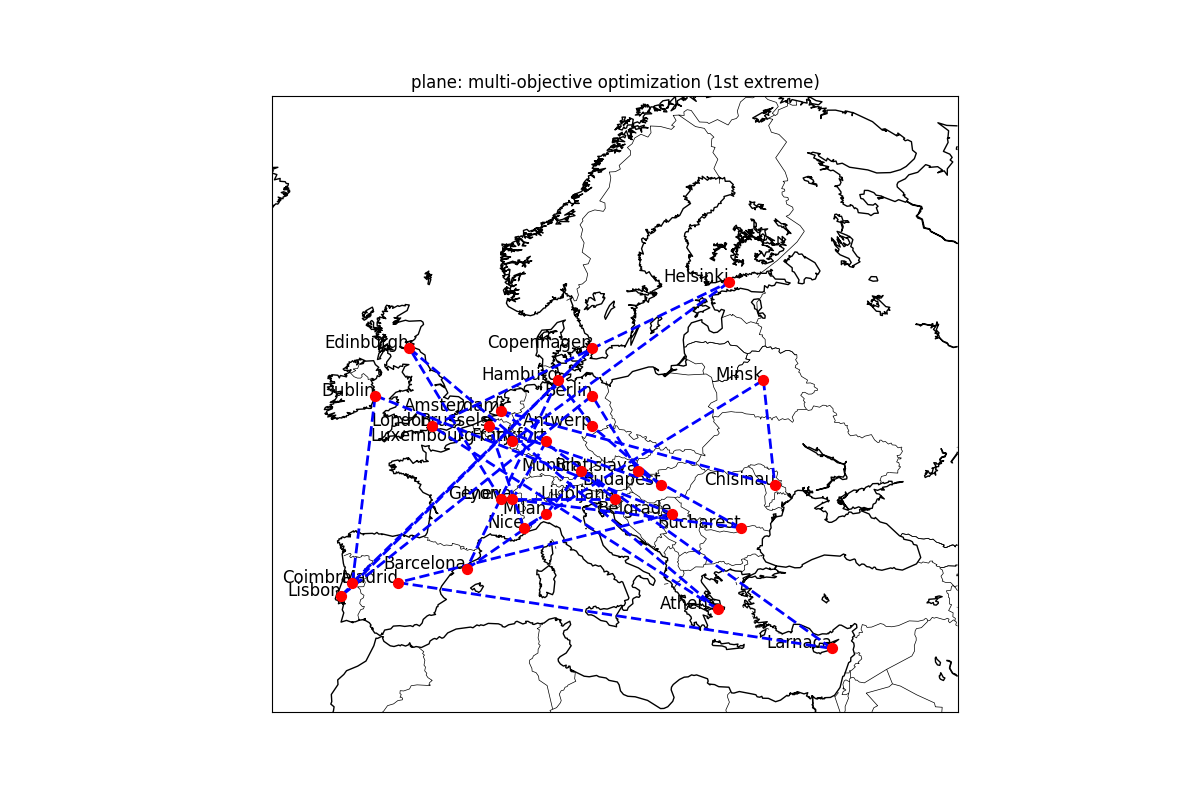
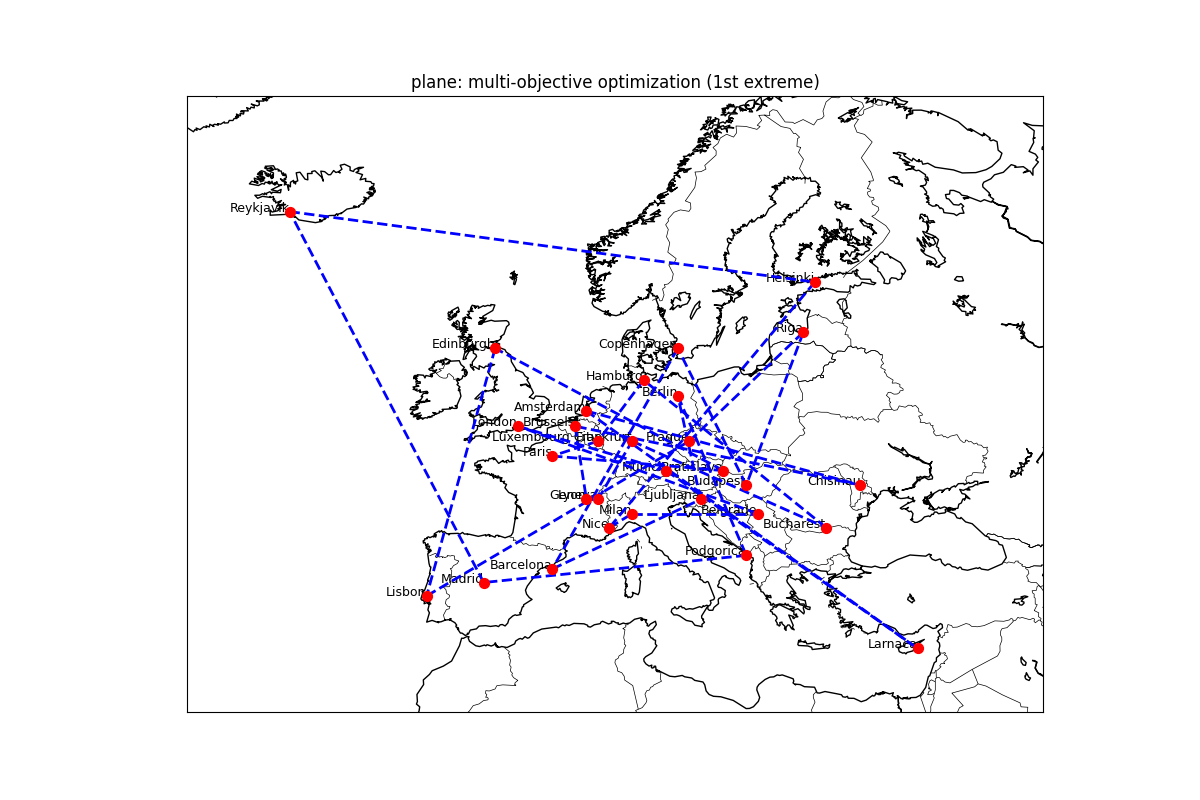
tudo menos heuristica

diff --git a/Integrated/CInte_Functions.py b/Integrated/CInte_Functions.py
@@ -28,7 +28,7 @@ def loadMatrix(filename, obj):
     return df.values
 
 #trims matrixes to remove unwanted cities
-def trimMatrix(matrix, n_cities, type):
+def trimMatrix(matrix, n_cities, type, xy):
     indexes = []
 
     #change maxValue based on type
@@ -53,10 +53,11 @@ def trimMatrix(matrix, n_cities, type):
         #after checking all of a city's values, see if its emtpy, if it is then place its index in the indexes variable
         if empty == True:
             indexes.append(col)
-
     #delete empty cities from the matrix
     matrix = np.delete(matrix, indexes, axis=1)
     matrix = np.delete(matrix, indexes, axis=0)
+
+    xy = xy.drop(indexes).reset_index(drop=True)
 
     #if the matrix has less cities than the number of cities specified, give error
     if len(matrix) < n_cities:
@@ -67,41 +68,42 @@ def trimMatrix(matrix, n_cities, type):
         n_columns = len(matrix) - n_cities
         matrix = matrix[:, :-n_columns]
         
-    return matrix   
+    return matrix, xy
 
 def createTSPMap(xy, route, n_cities, title, save_path):
     if n_cities < 50:
-        xy = xy.iloc[:-(50-n_cities)]
-        
+        xy = xy.iloc[:n_cities]  # Adjust to n_cities from the start of the DataFrame
+
     plt.figure(figsize=(12, 8))
-    m = Basemap(projection='mill', llcrnrlat=30, urcrnrlat=70, llcrnrlon=-15, urcrnrlon=45, resolution='l')  
+    m = Basemap(projection='mill', llcrnrlat=30, urcrnrlat=70, llcrnrlon=-30, urcrnrlon=45, resolution='l')
     m.drawcoastlines()
     m.drawcountries()
 
+    # Convert latitude and longitude to map coordinates
     x, y = m(xy['longitude'].values, xy['latitude'].values)
     m.scatter(x, y, s=50, color='red', marker='o', zorder=5)
 
     for i in range(len(route) - 1):
-        # Get the indices of the two cities to connect
-        start_idx = route[i]
-        end_idx = route[i + 1]
-        
-        # Get the coordinates for these cities
+        start_idx, end_idx = route[i], route[i + 1]
         x_start, y_start = x[start_idx], y[start_idx]
         x_end, y_end = x[end_idx], y[end_idx]
-        
-        # Plot the line
         m.plot([x_start, x_end], [y_start, y_end], linestyle='--', color='blue', linewidth=2, zorder=4)
 
+    # Connect the last city back to the first to complete the route
     m.plot([x[route[0]], x[route[-1]]], [y[route[0]], y[route[-1]]], linestyle='--', color='blue', linewidth=2, zorder=4)
 
-    # Annotate cities with names
+    # Annotate city names on the map
     for i, city in enumerate(xy['city']):
-        plt.text(x[i], y[i], city, fontsize=12, ha='right')
+        plt.text(x[i], y[i], city, fontsize=9, ha='right')
 
     plt.title(title)
+    
+    # Ensure .png extension in save path if not provided
+    if not save_path.endswith('.png'):
+        save_path += '.png'
     plt.savefig(save_path)
-    print(f"image saved to {save_path}.png")
+    plt.close()
+    print(f"Image saved to {save_path}")
 
 #generate population based on population size and number of cities
 def generatePopulation(n_cities, pop_size):
@@ -192,10 +194,10 @@ def swapMutation(offsprings, probability):
     return offsprings
 
 #GA for single transport SOO  
-def SingleTransportOptimization(matrix, type, transport, n_cities, pop_size, n_generations):
+def SingleTransportOptimization(matrix, type, transport, n_cities, pop_size, n_generations, xy):
     conv = []
     #first we discard unwanted cities (cities with low number of stations)
-    matrix = trimMatrix(matrix, n_cities, type)
+    matrix, xy = trimMatrix(matrix, n_cities, type, xy)
 
     #now we generate a population with the trimmed matrix
     population = generatePopulation(n_cities, pop_size)
@@ -232,7 +234,7 @@ def SingleTransportOptimization(matrix, type, transport, n_cities, pop_size, n_g
             eval += 2
         else:
             break
-    return population[0], fitness[0], conv
+    return population[0], fitness[0], conv, xy
     
 #calculate the route cost based on the three matrices, alwats choosing the smallest value out of the three
 def ThreeTransportRouteCost(route, matrices):
@@ -311,7 +313,7 @@ def SingleObjectiveGeneticAlgorithm(matrix1, matrix2, matrix3, xy, type, transpo
         print("Error loading matrix1")
         exit(1)
     elif (isinstance(matrix1, np.ndarray) != 0) & (isinstance(matrix2, np.ndarray) == 0) & (isinstance(matrix3, np.ndarray) == 0):
-        best_solution, best_fitness, conv = SingleTransportOptimization(matrix1, type, transport, n_cities, pop_size, n_generations)
+        best_solution, best_fitness, conv, xy = SingleTransportOptimization(matrix1, type, transport, n_cities, pop_size, n_generations, xy)
     elif (isinstance(matrix1, np.ndarray) != 0) & (isinstance(matrix2, np.ndarray) != 0) & (isinstance(matrix2, np.ndarray) != 0):
         best_solution, best_fitness, conv = ThreeTransportOptimization(matrix1, matrix2, matrix3, n_cities, pop_size, n_generations)
     else:
@@ -358,6 +360,31 @@ def SingleObjectiveGeneticAlgorithm(matrix1, matrix2, matrix3, xy, type, transpo
 
     return best_fitness, conv
 
+def plot_conv(all_conv, o):
+    mean_per_generation = np.mean(all_conv, axis=0)
+
+    # Create a range for generations
+    generations = range(1, len(all_conv[0]) + 1)
+
+    # Plot each run's fitness values across generations
+    plt.figure(figsize=(10, 6))
+    plt.plot(generations, all_conv[0], label="Run 1", marker='o', markersize=1)
+    plt.plot(generations, all_conv[1], label="Run 2", marker='o', markersize=1)
+    plt.plot(generations, all_conv[2], label="Run 3", marker='o', markersize=1)
+
+    # Plot the mean fitness across generations
+    plt.plot(generations, mean_per_generation, label="Mean "+o, color="black", linewidth=4, linestyle='-', marker='o', markersize=2)
+
+    # Labeling the plot
+    plt.xlabel("Generations")
+    plt.ylabel(o)
+    plt.title("Convergence curves")
+    plt.legend()
+    plt.grid(True)
+    plt.savefig(f'convergence_curves_{o}.png')
+    plt.close()  # Close the plot to avoid showing in non-interactive environments
+    print(f"Pareto front plot saved to convergence_curves_{o}.png")
+    return
 
 ############################################################################################################################################################
 ############################################################################################################################################################
@@ -511,11 +538,11 @@ def has_duplicates(arr_list):
                 return True  # Duplicate found
     return False
 
-def SingleTransportMultiOptimization(matrix1, matrix2, cities, n_generations):
+def SingleTransportMultiOptimization(matrix1, matrix2, cities, n_generations,xy):
 
     pop_size = 50
-    cost1 = trimMatrix(matrix1, cities, 'cost')
-    cost2 = trimMatrix(matrix2, cities, 'time')
+    cost1, xy = trimMatrix(matrix1, cities, 'cost', xy)
+    cost2, xy = trimMatrix(matrix2, cities, 'time',xy)
     
     population = generatePopulation(cities, 50)
     
@@ -561,7 +588,9 @@ def SingleTransportMultiOptimization(matrix1, matrix2, cities, n_generations):
     pareto_front_routes = [population[i] for i in fronts[0]]
     pareto_front_fitness = [fitness[i] for i in fronts[0]] 
 
-    return pareto_front_routes, pareto_front_fitness, hypervolume
+    extremes = findExtremities(fronts[0], fitness)
+
+    return pareto_front_routes, pareto_front_fitness, hypervolume, extremes, xy
 
 def ThreeTransportMultiOptimization(matrix1, matrix2, matrix3, matrix4, matrix5, matrix6, cities, n_generations):
     #remove the last cities of each matrix according to n_cities
@@ -619,17 +648,18 @@ def ThreeTransportMultiOptimization(matrix1, matrix2, matrix3, matrix4, matrix5,
     #get the routes and values in the pareto front
     pareto_front_routes = [population[i] for i in fronts[0]]
     pareto_front_fitness = [fitness[i] for i in fronts[0]] 
+    extremes = findExtremities(fronts[0], fitness)
 
-    return pareto_front_routes, pareto_front_fitness, hypervolume
+    return pareto_front_routes, pareto_front_fitness, hypervolume, extremes
 
 def MultiObjectiveGeneticAlgorithm(matrix1, matrix2, matrix3, matrix4, matrix5, matrix6, xy, transport, n_cities=50, n_generations=250):
     if isinstance(matrix1, np.ndarray) == 0:
         print("Error loading matrix1")
         exit(1)
     elif (isinstance(matrix1, np.ndarray) != 0) & (isinstance(matrix2, np.ndarray) != 0) & (isinstance(matrix3, np.ndarray) == 0) & (isinstance(matrix4, np.ndarray) == 0) & (isinstance(matrix5, np.ndarray) == 0)& (isinstance(matrix6, np.ndarray) == 0):
-        pareto_routes, pareto_fitness, hypervolume = SingleTransportMultiOptimization(matrix1, matrix2, n_cities, n_generations)
+        pareto_routes, pareto_fitness, hypervolume, extremes, xy = SingleTransportMultiOptimization(matrix1, matrix2, n_cities, n_generations, xy)
     elif (isinstance(matrix1, np.ndarray) != 0) & (isinstance(matrix2, np.ndarray) != 0) & (isinstance(matrix3, np.ndarray) != 0) & (isinstance(matrix4, np.ndarray) != 0) & (isinstance(matrix5, np.ndarray) != 0)& (isinstance(matrix6, np.ndarray) != 0):
-        pareto_routes, pareto_fitness, hypervolume = ThreeTransportMultiOptimization(matrix1, matrix2, matrix3, matrix4, matrix5, matrix6, n_cities, n_generations)
+        pareto_routes, pareto_fitness, hypervolume, extremes = ThreeTransportMultiOptimization(matrix1, matrix2, matrix3, matrix4, matrix5, matrix6, n_cities, n_generations)
     else:
         print("invalid matrix composition. Send matrix 2 for single transport optimization or all 6 for 3 transport optimization")
         exit(1) 
@@ -642,11 +672,11 @@ def MultiObjectiveGeneticAlgorithm(matrix1, matrix2, matrix3, matrix4, matrix5, 
         print(f"fitnesses (€, Hours) = {pareto_fitness[i]}")
         print("############################################################################################################")
         #only plot extremes
-        if i == 0:
+        if i == extremes[0]:
             title = f"{transport}: multi-objective optimization (1st extreme)"
             save_path = f"{transport}_multi_extreme1"
             createTSPMap(xy, pareto_routes[i], n_cities, title, save_path)
-        elif i == len(pareto_routes)-1:
+        elif i == extremes[1]:
             title = f"{transport}: multi-objective optimization (2nd extreme)"
             save_path = f"{transport}_multi_extreme2"
             createTSPMap(xy, pareto_routes[i], n_cities, title, save_path)

diff --git a/Integrated/TSP.py b/Integrated/TSP.py
@@ -1,5 +1,6 @@
 import sys
 import os
+import numpy as np
 
 import CInte_Functions as ci
 
@@ -90,30 +91,42 @@ if (TRANSPORT == 'all'):
 else:
     transport = [TRANSPORT]
 
+fit=[]
+all_conv = []
 # Start solving the problems
 for p in problem:
     for s in size:
         for o in objective:
             for t in transport:
                 if p == 'single':
-                    if o == 'cost':
-                        if t == 'bus':
-                            ci.SingleObjectiveGeneticAlgorithm(cost_bus, 0, 0, xy, o, "bus", s)
-                        elif t == 'train':
-                            ci.SingleObjectiveGeneticAlgorithm(cost_train, 0, 0, xy, o, "train", s)
-                        elif t == 'plane':
-                            ci.SingleObjectiveGeneticAlgorithm(cost_plane, 0, 0, xy, o, "plane", s)
-                        else:
-                            ci.SingleObjectiveGeneticAlgorithm(cost_plane, cost_train, cost_bus, xy, o, "all transports", s)
-                    elif o == 'time':
-                        if t == 'bus':
-                            ci.SingleObjectiveGeneticAlgorithm(time_bus, 0, 0, xy, o, "bus", s)
-                        elif t == 'train':
-                            ci.SingleObjectiveGeneticAlgorithm(time_train, 0, 0, xy, o, "train", s)
-                        elif t == 'plane':
-                            ci.SingleObjectiveGeneticAlgorithm(time_plane, 0, 0, xy, o, "plane", s)
-                        else:
-                            ci.SingleObjectiveGeneticAlgorithm(time_plane, cost_train, cost_bus, xy, o, "all transports", s)
+                    for run in range(3):
+                        if o == 'cost':
+                            if t == 'bus':
+                                fitness, conv = ci.SingleObjectiveGeneticAlgorithm(cost_bus, 0, 0, xy, o, "bus", s)
+                            elif t == 'train':
+                                fitness, conv = ci.SingleObjectiveGeneticAlgorithm(cost_train, 0, 0, xy, o, "train", s)
+                            elif t == 'plane':
+                                fitness, conv = ci.SingleObjectiveGeneticAlgorithm(cost_plane, 0, 0, xy, o, "plane", s)
+                            else:
+                                fitness, conv = ci.SingleObjectiveGeneticAlgorithm(cost_plane, cost_train, cost_bus, xy, o, "all transports", s)
+                        elif o == 'time':
+                            if t == 'bus':
+                                fitness, conv = ci.SingleObjectiveGeneticAlgorithm(time_bus, 0, 0, xy, o, "bus", s)
+                            elif t == 'train':
+                                fitness, conv = ci.SingleObjectiveGeneticAlgorithm(time_train, 0, 0, xy, o, "train", s)
+                            elif t == 'plane':
+                                fitness, conv = ci.SingleObjectiveGeneticAlgorithm(time_plane, 0, 0, xy, o, "plane", s)
+                            else:
+                                fitness, conv = ci.SingleObjectiveGeneticAlgorithm(time_plane, cost_train, cost_bus, xy, o, "all transports", s)
+                        fit.append(fitness)
+                        all_conv.append(conv)
+
+                    avg_fit = np.mean(fit, axis=0)
+                    std_fit = np.std(fit, axis=0)
+
+                    print(f'Mean: {avg_fit}; STD: {std_fit};')
+
+                    ci.plot_conv(all_conv, o)
                 elif (p == 'multi'):
                     if t == "bus":
                         ci.MultiObjectiveGeneticAlgorithm(cost_bus, time_bus, 0, 0, 0, 0, xy, "bus", s)
